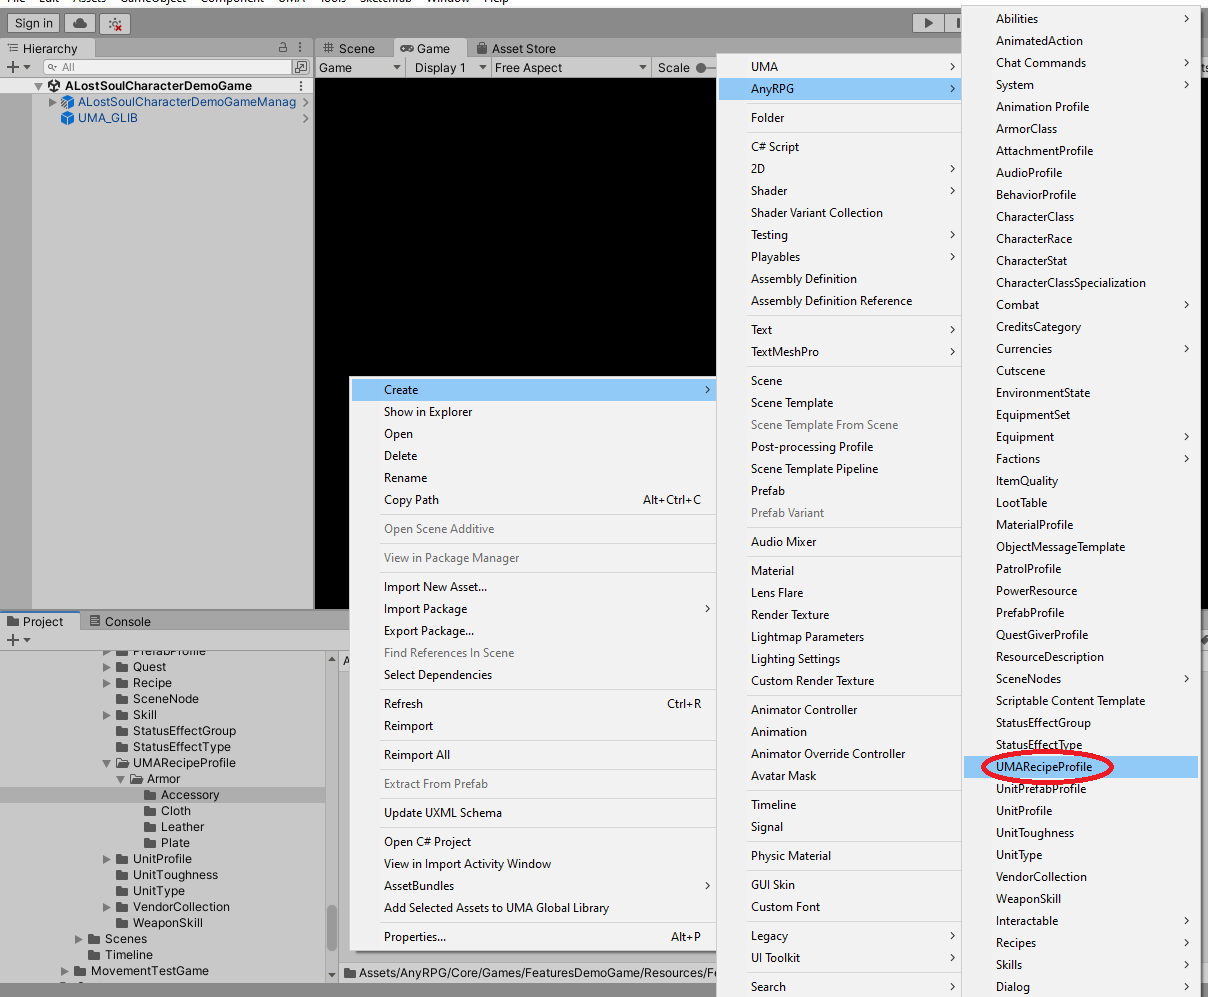
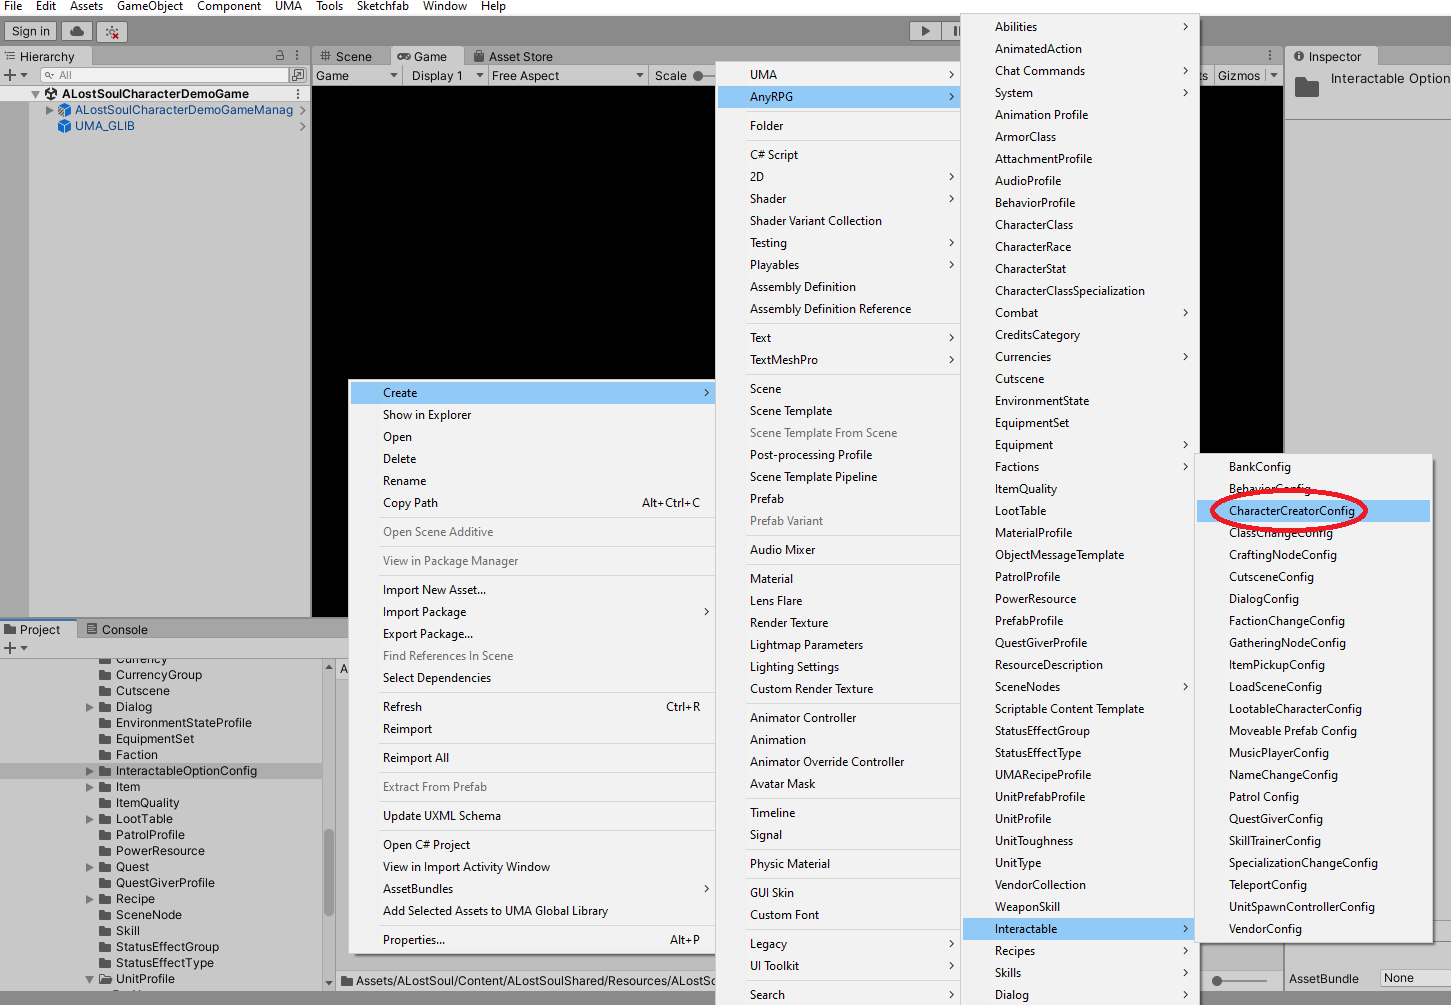
GitBook: [#78] add moveable prefab config documentation

diff --git a/scriptable-objects/interactable-option-configurations/moveable-prefab-config.md b/scriptable-objects/interactable-option-configurations/moveable-prefab-config.md
@@ -1,5 +1,25 @@
+---
+description: >-
+  A moveable prefab config creates a moveable prefab interactable option, which
+  allows the prefab to be moved or rotated by interacting with a switch.
+---
+
 # Moveable Prefab Config
 
-{% hint style="info" %}
-Coming Soon
-{% endhint %}
+## Creation
+
+To create a moveable prefab config, find (or create) the _GameName/Resources/GameName/InteractableOptionConfig_ folder in the project tab and right click.  Choose _Create > AnyRPG > Interactable > MoveablePrefabConfig_.
+
+![](../../.gitbook/assets/image.png)
+
+## Properties
+
+| Name           | Description                                                                                                                   |
+| -------------- | ----------------------------------------------------------------------------------------------------------------------------- |
+| Movement Speed | The speed that the prefab will move at.                                                                                       |
+| Rotation Speed | The speed that the prefab will be rotated at.                                                                                 |
+| Loop           | If true, the prefab will return to its starting position and rotation when done moving, and then continue its movement again. |
+
+## Next Steps
+
+* Add a moveable prefab config to an Interactable to allow it to be moved with a switch.

diff --git a/scriptable-objects/interactable-option-configurations/character-creator-config.md b/scriptable-objects/interactable-option-configurations/character-creator-config.md
@@ -11,7 +11,7 @@ description: >-
 
 To create a character creator config, find (or create) the _GameName/Resources/GameName/InteractableOptionConfig_ folder in the project tab and right click.  Choose _Create > AnyRPG > Interactable > CharacterCreatorConfig_.
 
-![](../../.gitbook/assets/image.png)
+![](<../../.gitbook/assets/image (4).png>)
 
 ## Properties
 

diff --git a/scriptable-objects/uma-recipe-profile.md b/scriptable-objects/uma-recipe-profile.md
@@ -10,7 +10,7 @@ description: >-
 
 To create an UMA recipe profile, find (or create) the _GameName/Resources/GameName/UMARecipeProfile_ folder (or any subfolder) in the project tab and right click.  Choose _Create > AnyRPG > UMARecipeProfile_.
 
-![](<../.gitbook/assets/image (4).png>)
+![](<../.gitbook/assets/image (4) (2).png>)
 
 ## Properties
 
